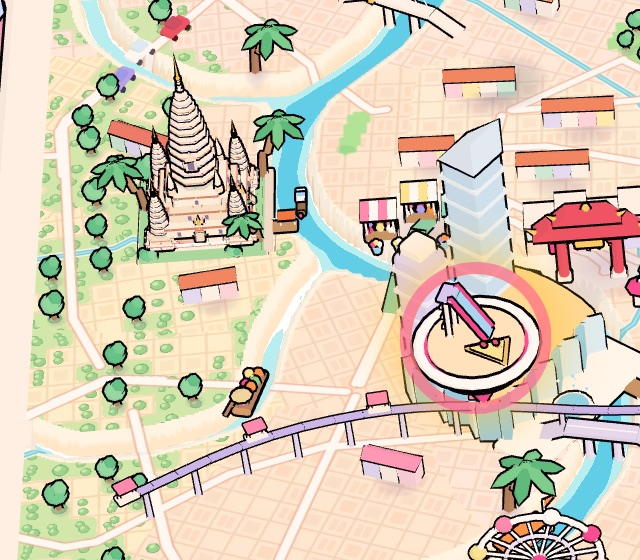
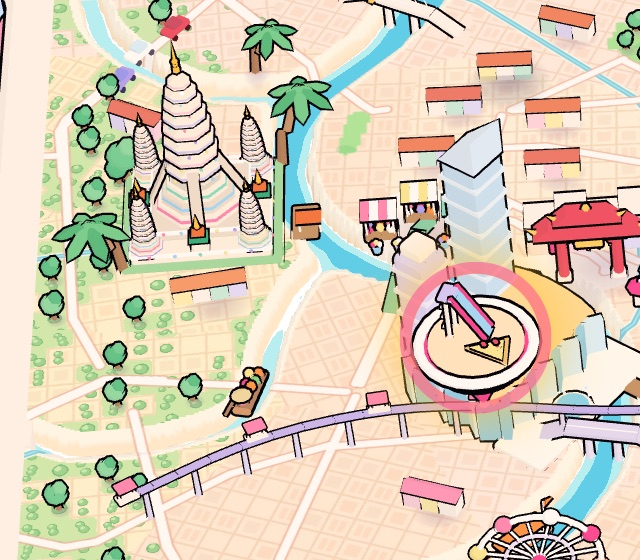
Review page for neb636/bangkok-landmarks

diff --git a/neb636--bangkok-landmarks/index.html b/neb636--bangkok-landmarks/index.html
@@ -37,13 +37,11 @@ button:focus-visible,.pill:focus-visible{outline:3px solid var(--ink);outline-of
 </style></head><body><main>
 <span class="chip">Check-in fix</span>
 <h1>Bangkok map: Wat Arun, smaller pins, and zoom on every map</h1>
-<p class="kaylee">The Bangkok map now shows Wat Arun on the Thonburi bank, smaller and more detailed than before: stepped terraces with red trim and little niches, pinnacles, slim corner prangs and a long gold needle. A tap names it: the light runs up its gold, a soft shimmer, and Sparkle says &quot;Wat Arun, the Temple of Dawn! It sparkles with tiny pieces of colorful china.&quot; Nothing moves it. The kites and the Grand Palace are gone, and the two place pins are 40% smaller. On every Thailand map she can pinch in (iPad and iPhone) or pinch on a Mac trackpad or scroll, up to 2.5 times closer, toward the spot under her fingers. New sound: 1.5 s (the shimmer).</p>
+<p class="kaylee">The Bangkok map now shows Wat Arun on the Thonburi bank. A tap names it: the light runs up its gold, a soft shimmer, and Sparkle says &quot;Wat Arun, the Temple of Dawn! It sparkles with tiny pieces of colorful china.&quot; Nothing moves it. The kites and the Grand Palace are gone, and the two place pins are 40% smaller. On every Thailand map she can pinch in (iPad and iPhone) or pinch on a Mac trackpad or scroll, up to 2.5 times closer, toward the spot under her fingers. New sound: 1.5 s (the shimmer).</p>
 
 
 <h2>Before and after</h2><div class="pics"><figure class="pair"><div><img src="pics/oldtown-before.jpg" alt="Before: The old town" loading="lazy"><span>Before</span></div><div><img src="pics/oldtown-after.jpg" alt="After: The old town" loading="lazy"><span>After</span></div>
 <figcaption><b>The old town</b>: Wat Arun on the left bank, where it really is</figcaption></figure>
-<figure class="solo"><img src="pics/arun-close.jpg" alt="Wat Arun up close" loading="lazy">
-<figcaption><b>Wat Arun up close</b>: Zoomed in: terraces, niches, pinnacles, corner prangs, its pier and a longtail</figcaption></figure>
 <figure class="solo"><img src="pics/board-after.jpg" alt="The whole board" loading="lazy">
 <figcaption><b>The whole board</b>: iPad landscape</figcaption></figure>
 <figure class="solo"><img src="pics/zoom-bangkok.jpg" alt="Zoomed in on the old town" loading="lazy">
